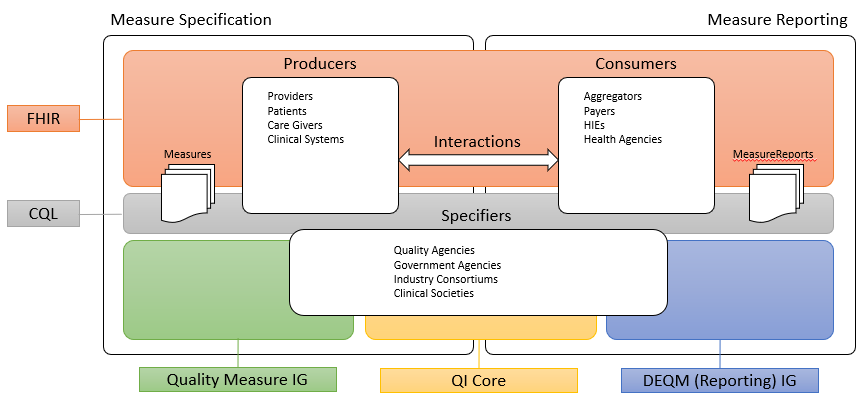
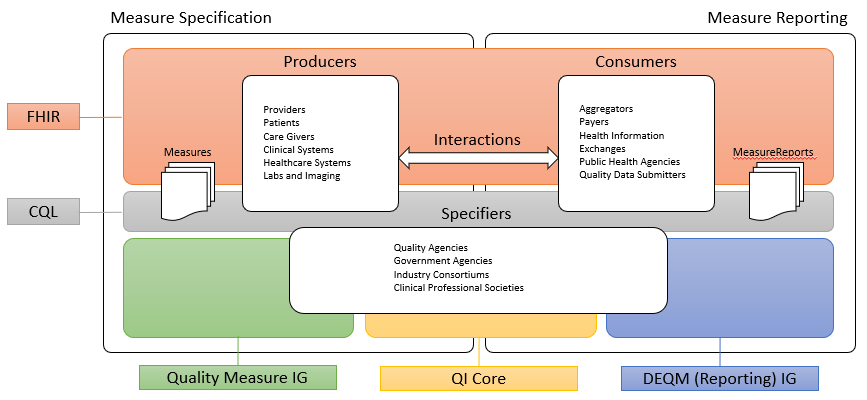
Applied review changes.

diff --git a/pages/index.html b/pages/index.html
@@ -19,7 +19,7 @@ layout: default
 
 <h3>Background</h3>
 
-<p>Clinical quality measures (CQMs) are tools that help measure and track the quality of health care services that eligible professionals (EPs), eligible hospitals, and critical access hospitals (CAHs) provide. Measuring and reporting CQMs helps to ensure that our health care system is delivering effective, safe, efficient, patient-centered, equitable, and timely care. CQMs measure many aspects of patient care, including:</p>
+<p>Clinical quality measures (CQMs) are tools that help measure and track the quality of health care services that eligible clinicians (ECs), eligible hospitals (EHs), and critical access hospitals (CAHs) provide. Measuring and reporting CQMs helps to ensure that our health care system is delivering effective, safe, efficient, patient-centered, equitable, and timely care. CQMs measure many aspects of patient care, including:</p>
 
 <ul>
   <li>Patient and Family Engagement</li>
@@ -33,7 +33,7 @@ layout: default
 <h4>Who are all the players in the Quality space?</h4>
 
 <ul>
-  <li>Policy Directions on Quality<br/>
+  <li>Policy Directors on Quality<br/>
     <ul><li>National Priorities Partnership, National Quality Strategy, Centers for Medicare & Medicaid Services (CMS), Office of the National Coordinator for Health Information Technology (ONC)</li></ul>
   </li>
   <li>Measure Requesters<br/>
@@ -81,7 +81,7 @@ layout: default
 
 <p>The left side of the quality measurement standards landscape diagram depicts the activities and standards associated with measure specification, while the right side depicts measure reporting.</p>
   
-<p><b>Measure specification</b> involves the development, testing, validation, distribution, and data representation and capture of quality measures.</p>
+<p><b>Measure specification</b> involves the end product of the measure development process, a precisely specified, valid, reliable, and clinically significant measure specification to support accurate data representation and capture of quality measures.</p>
 
 <p><b>Measure reporting</b> involves the data collection and aggregation, calculation and analytics, and ultimately reporting of quality measures.</p>
 
@@ -89,7 +89,7 @@ layout: default
 
 <p><b>Consumers</b> in the diagram represent the various stakeholders involved in the consumption and use of healthcare data. Consumers can include data routers and aggregators, payers, health information exchanges and health integrated networks, as well as public health and other healthcare-related agencies.</p>
 
-<p><b>Specifiers</b> in the diagram represents the various stakeholders involved in the specification of quality measures for use in healthcare quality measurement and reporting. Specifiers can include quality agencies, public health, and other healthcare-related agencies, industry consortiums concerned with improving care quality, and clinical specialty societies. Specifiers may also be institutions and clinics using the quality measurement standards to specify quality measures for use in their own environments and quality improvement initiatives.</p>
+<p><b>Specifiers</b> in the diagram represents the various stakeholders involved in the specification of quality measures for use in healthcare quality measurement and reporting. Specifiers can include quality agencies, public health, and other healthcare-related agencies, industry consortiums concerned with improving care quality, and clinical professional societies. Specifiers may also be institutions and clinics using the quality measurement standards to specify quality measures for use in their own environments and quality improvement initiatives.</p>
 
 <p>The shaded areas underlying the stakeholders depict the various standards involved:</p>
 
@@ -101,7 +101,7 @@ layout: default
 
 <h5>Clinical Quality Language (CQL)</h5>
 
-<p>Clinical Quality Language, or CQL, is an HL7 cross-paradigm specification that defines a high-level, domain-specific language focused on clinical quality and trageted at measure and decision support artifact authors. In addition, the specification describes a machine-readable canonical representation called Expression Logical Model (ELM) targeted at implementations and designed to facilitate sharing and evaluation of clinical knowledge.</p>
+<p>Clinical Quality Language, or CQL, is an HL7 cross-paradigm specification that defines a high-level, domain-specific language focused on clinical quality and targeted for use by measure and decision support artifact authors. In addition, the specification describes a machine-readable canonical representation called Expression Logical Model (ELM) targeted at implementations and designed to facilitate sharing and evaluation of clinical knowledge.</p>
 
 <p>This ability to render clinical knowledge in a high-level human-readable form as well as an intermediate-level, platform-independent machine-readable form makes CQL an ideal mechanism for specifying the criteria involved in quality measures.</p>
 
@@ -115,7 +115,7 @@ layout: default
 
 <h5>Data Exchange for Quality Measures (DEQM)</h5>
 
-<p>The Data Exchange for Quality Measures Implementation Guide, or DEQM, defines conformance profiles and guidance focused on the exchange of the data of interest for quality measures, as well as quality measure reporting. The DEQM expects to use quality measures specified in accordance with the Quality Measure IG and QI Core.</p>
+<p>The Data Exchange for Quality Measures Implementation Guide, or DEQM, provides a framework that defines conformance profiles and guidance to enable the exchange of quality information and quality measure reporting. The DEQM expects to use quality measures specified in accordance with the Quality Measure IG and QI Core.</p>
 
 <h4>Data Model Standards Landscape</h4>
 
